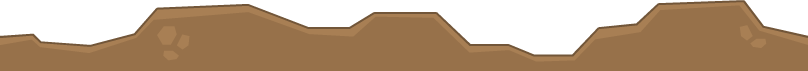
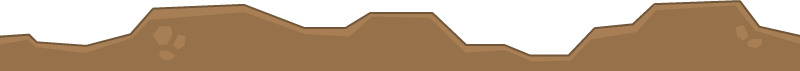
Change ground dirt image dimension

diff --git a/src/playGame.js b/src/playGame.js
@@ -26,6 +26,7 @@ class playGame extends Phaser.Scene{
 		this.points = 0;
 
 		this.generateBackground();
+		this.generateClouds();
 		this.generateGround();
 		this.generatePlane();
 		this.generateRocks();
@@ -62,12 +63,14 @@ class playGame extends Phaser.Scene{
 
 		this.input.on("pointerdown", this.jumpPlane, this);
 		this.matter.world.on('collisionstart', this.checkCollision, this);
-		this.time.addEvent({
+
+		this.increaseSpeedTimer = this.time.addEvent({
 			delay: 5000,
 			callback: this.increaseGameSpeed,
 			callbackScope: this,
 			loop:true
 		});
+		this.increaseSpeedTimer.paused = true;
 	}
 
 	jumpPlane(){
@@ -81,6 +84,7 @@ class playGame extends Phaser.Scene{
 			this.isRunning = true;
 			this.firstStart = false;
 			this.jumpPlane();
+			this.increaseSpeedTimer.paused = false;
 
 			this.tweens.add({
 				duration:200,
@@ -122,11 +126,30 @@ class playGame extends Phaser.Scene{
 		}
 	}
 
+	generateClouds(){
+		this.cloudPool = [];
+		
+		//Smallest: 25,25
+		//Largest: 775, 150
+		for(var i=0; i<8; i++){
+			var isLarge = Math.round(Math.random());
+			var xLocation = (Math.random()*750)+25;
+			var yLocation = (Math.random()*125)+25;
+			if(isLarge){
+				var cloud = this.add.image(xLocation,yLocation,"puffLarge");
+			} else {
+				var cloud = this.add.image(xLocation,yLocation,"puffSmall");
+			}
+
+			this.cloudPool.push(cloud);
+		}
+	}
+
 	generateGround(){
 		this.groundPool = [];
 
 		for(var i=0; i<3; i++){
-			var ground = this.add.image(gameOptions.width/2+(i*808),444,"grounddirt");
+			var ground = this.add.image(gameOptions.width/2+(i*800),444,"grounddirt");
 			ground.alpha = 0.5;
 			this.groundPool.push(ground);
 		}
@@ -173,9 +196,24 @@ class playGame extends Phaser.Scene{
 				this.backgroundPool = this.backgroundPool.slice(1, this.backgroundPool.length);
 
 				var lastBackgroundLocation = this.backgroundPool[this.backgroundPool.length-1].x;
-				background.x = lastBackgroundLocation+807;
+				background.x = lastBackgroundLocation+800;
 
 				this.backgroundPool.push(background);
+			}
+		}.bind(this));
+	}
+
+	cloudLoop(){
+		this.cloudPool.forEach(function(cloud){
+			cloud.x -= this.gameSpeed/4;
+			if(cloud.x < -30){
+				var isLarge = Math.round(Math.random());
+				var xLocation = (Math.random()*750)+25;
+				var yLocation = (Math.random()*125)+25;
+
+				cloud.texture = isLarge ? "puffLarge" : "puffSmall";
+				cloud.x = xLocation + gameOptions.width;
+				cloud.y = yLocation;
 			}
 		}.bind(this));
 	}
@@ -183,12 +221,13 @@ class playGame extends Phaser.Scene{
 	groundLoop(){
 		this.groundPool.forEach(function(ground){
 			ground.x -= this.gameSpeed/2;
-			if(ground.x < -gameOptions.width/2){
+			if(ground.x < -gameOptions.width){
 				this.groundPool = this.groundPool.slice(1, this.groundPool.length);
 
 				var lastGroundLocation = this.groundPool[this.groundPool.length-1].x;
-				ground.x = lastGroundLocation+807;
-
+				ground.x = lastGroundLocation+800;
+				console.log(lastGroundLocation);
+				console.log(ground.x);
 				this.groundPool.push(ground);
 			}
 		}.bind(this));
@@ -287,6 +326,7 @@ class playGame extends Phaser.Scene{
 		if(this.isRunning){
 			this.handlePlaneRotation();
 			this.backgroundLoop();
+			this.cloudLoop();
 			this.groundLoop();
 			this.rocksLoop();
 		}

diff --git a/src/bootGame.js b/src/bootGame.js
@@ -17,6 +17,8 @@ class bootGame extends Phaser.Scene{
 		this.load.image("tapTick", "assets/png/ui/tapTick.png");
 
 		this.load.image("background", "assets/png/background.png");
+		this.load.image("puffLarge", "assets/png/puffLarge.png");
+		this.load.image("puffSmall", "assets/png/puffSmall.png");
 
 		this.load.image("redPlane", "assets/png/planes/planeRed1.png");
 		this.load.json("planes", "assets/pe/planes.json");
